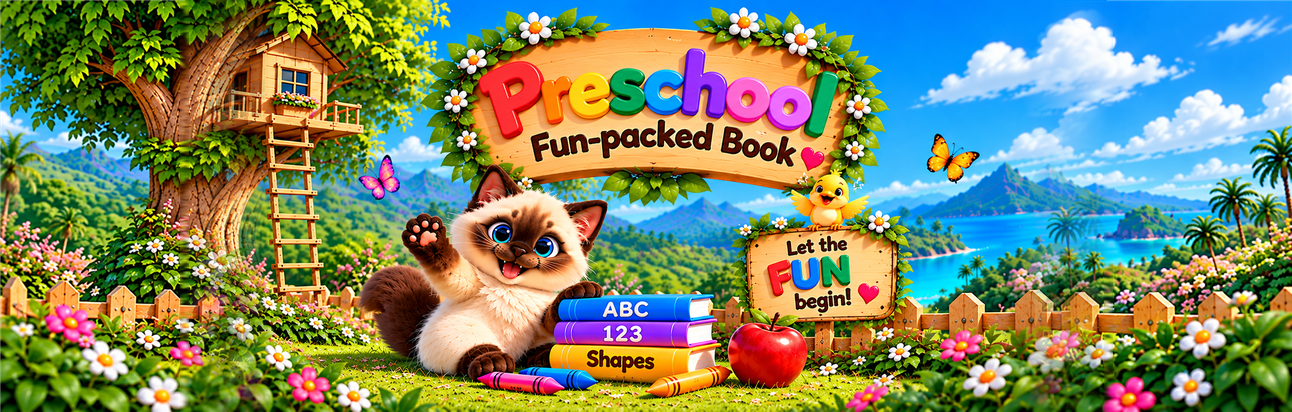
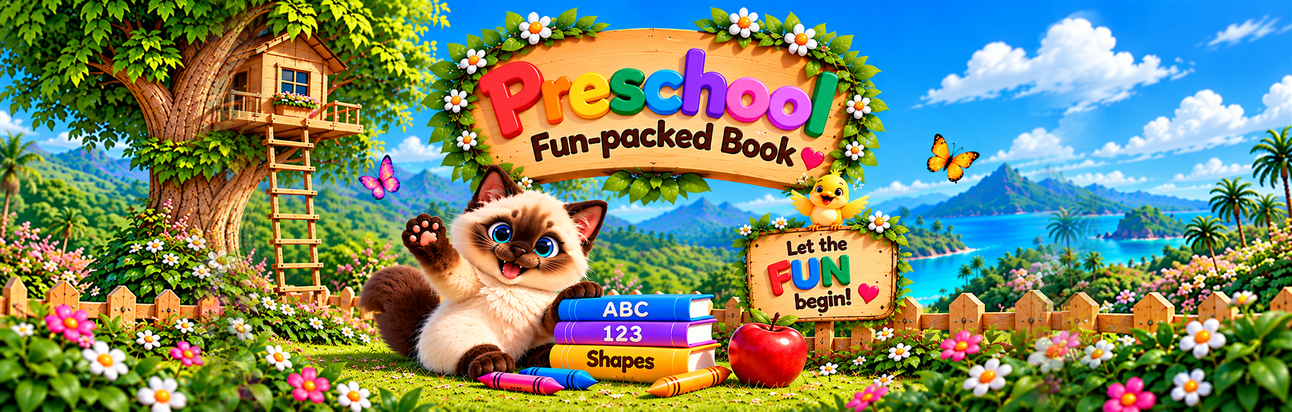
fix mobile layout view

diff --git a/page2.html b/page2.html
@@ -149,7 +149,7 @@
 <body>
   <main class="page" id="page2-top">
     <figure class="artboard" aria-label="Afri's nine learning panels">
-      <picture><source media="(pointer: coarse) and (orientation: portrait) and (max-height: 1000px)" srcset="page2-mobile-portrait-full.png?v=20261024-edge-fix2"><source media="(pointer: coarse) and (orientation: landscape) and (max-height: 600px)" srcset="page2-mobile-landscape-full.png?v=20261024-edge-fix2"><source media="(max-width: 600px) and (orientation: portrait)" srcset="page2-mobile-portrait-full.png?v=20261024-edge-fix2"><source media="(max-width: 1023px) and (min-aspect-ratio: 7 / 4) and (orientation: landscape)" srcset="page2-mobile-landscape-full.png?v=20261024-edge-fix2"><source media="(min-width: 768px) and (max-width: 1239px) and (min-height: 900px) and (orientation: portrait)" srcset="page2-tablet-portrait.png"><source media="(min-width: 768px) and (max-width: 1239px) and (min-height: 600px) and (max-aspect-ratio: 7 / 4) and (orientation: landscape)" srcset="page2-tablet-landscape.png"><source media="(min-width: 1240px) and (orientation: landscape)" srcset="page2-laptop.png"><img src="Afri%209%20Panels.jpg" alt="Afri waves beside the greeting, Hello there! Which one shall we play today? Below are nine panels: ABC, numbers, puzzles, exploring the world, kindness, cooking, shapes, art, and reading."></picture>
+      <picture><source media="(pointer: coarse) and (orientation: portrait) and (max-height: 1000px)" srcset="page2-mobile-portrait-full.png?v=20261024-edge-fix3"><source media="(pointer: coarse) and (orientation: landscape) and (max-height: 600px)" srcset="page2-mobile-landscape-full.png?v=20261024-edge-fix3"><source media="(max-width: 600px) and (orientation: portrait)" srcset="page2-mobile-portrait-full.png?v=20261024-edge-fix3"><source media="(max-width: 1023px) and (min-aspect-ratio: 7 / 4) and (orientation: landscape)" srcset="page2-mobile-landscape-full.png?v=20261024-edge-fix3"><source media="(min-width: 768px) and (max-width: 1239px) and (min-height: 900px) and (orientation: portrait)" srcset="page2-tablet-portrait.png"><source media="(min-width: 768px) and (max-width: 1239px) and (min-height: 600px) and (max-aspect-ratio: 7 / 4) and (orientation: landscape)" srcset="page2-tablet-landscape.png"><source media="(min-width: 1240px) and (orientation: landscape)" srcset="page2-laptop.png"><img src="Afri%209%20Panels.jpg" alt="Afri waves beside the greeting, Hello there! Which one shall we play today? Below are nine panels: ABC, numbers, puzzles, exploring the world, kindness, cooking, shapes, art, and reading."></picture>
       <a class="panel-link" style="--x-wide:6%;--y-wide:24.4%;--w-wide:29.4%;--h-wide:22.7%;--x-tall:2.2%;--y-tall:31.4%;--w-tall:32.2%;--h-tall:17.6%;--x-portrait:1.2%;--y-portrait:32.2%;--w-portrait:32%;--h-portrait:17%" href="early-literacy.html" aria-label="Open Early Literacy"></a>
       <a class="panel-link" style="--x-wide:36.2%;--y-wide:24.4%;--w-wide:29%;--h-wide:22.7%;--x-tall:35.2%;--y-tall:31.4%;--w-tall:31.6%;--h-tall:17.6%;--x-portrait:34.7%;--y-portrait:32.2%;--w-portrait:31%;--h-portrait:17%" href="early-math.html" aria-label="Open Early Math"></a>
       <a class="panel-link" style="--x-wide:65.5%;--y-wide:24.4%;--w-wide:30.2%;--h-wide:22.7%;--x-tall:66.4%;--y-tall:31.4%;--w-tall:32%;--h-tall:17.6%;--x-portrait:66.5%;--y-portrait:32.2%;--w-portrait:31.5%;--h-portrait:17%" href="thinking-skills.html" aria-label="Open Thinking Skills"></a>

diff --git a/index.html b/index.html
@@ -96,9 +96,9 @@
 <body>
   <main class="cover" id="cover" aria-label="Preschool Fun-packed Book cover">
     <picture>
-      <source media="(pointer: coarse) and (orientation: landscape) and (max-height: 600px)" srcset="page1-mobile-landscape-full.png">
-      <source media="(max-width: 600px) and (orientation: portrait)" srcset="page1-mobile-portrait-full.png?v=20261024-edge-fix2">
-      <source media="(max-width: 1100px) and (min-aspect-ratio: 7 / 4) and (orientation: landscape)" srcset="page1-mobile-landscape-full.png">
+      <source media="(pointer: coarse) and (orientation: landscape) and (max-height: 600px)" srcset="page1-mobile-landscape-full.png?v=20261024-edge-fix3">
+      <source media="(max-width: 600px) and (orientation: portrait)" srcset="page1-mobile-portrait-full.png?v=20261024-edge-fix3">
+      <source media="(max-width: 1100px) and (min-aspect-ratio: 7 / 4) and (orientation: landscape)" srcset="page1-mobile-landscape-full.png?v=20261024-edge-fix3">
       <source media="(min-width: 601px) and (max-width: 1100px) and (orientation: portrait)" srcset="page1-tablet-portrait.png">
       <source media="(min-width: 701px) and (max-width: 1100px) and (min-height: 601px) and (orientation: landscape)" srcset="page1-tablet-landscape-4x3.png">
       <source media="(min-width: 1101px) and (orientation: landscape)" srcset="page1-tablet-landscape.png">
